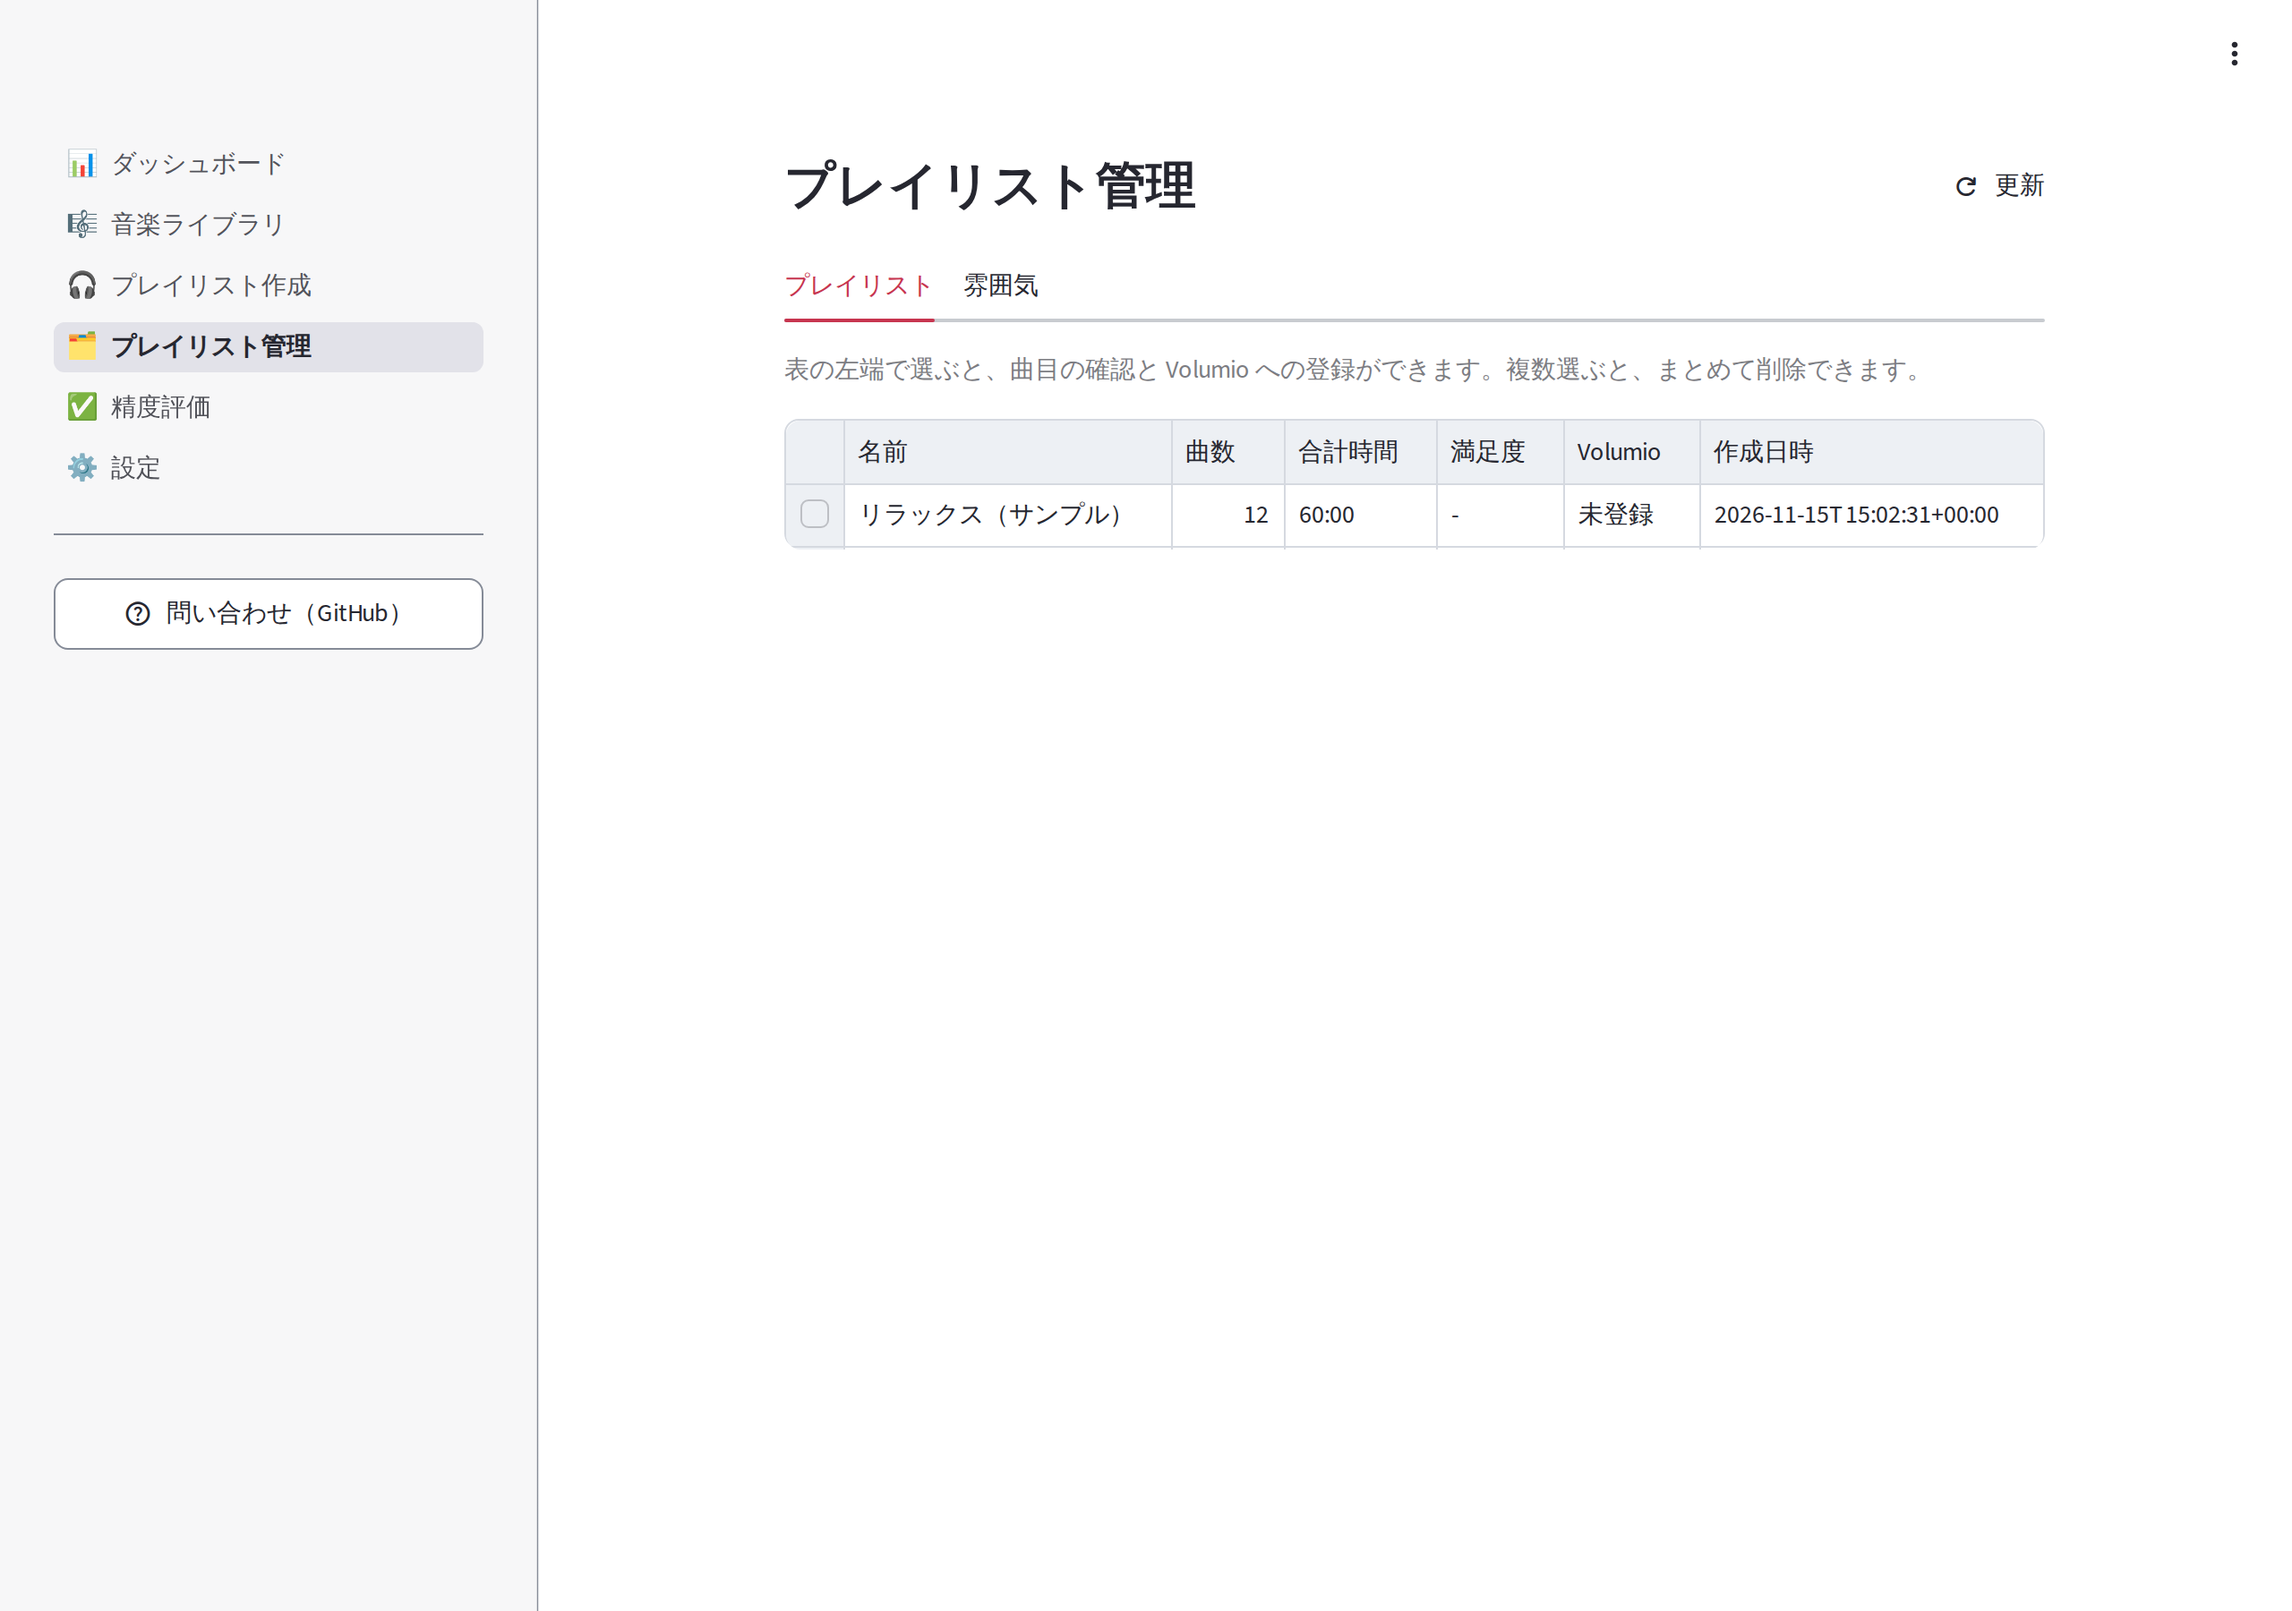
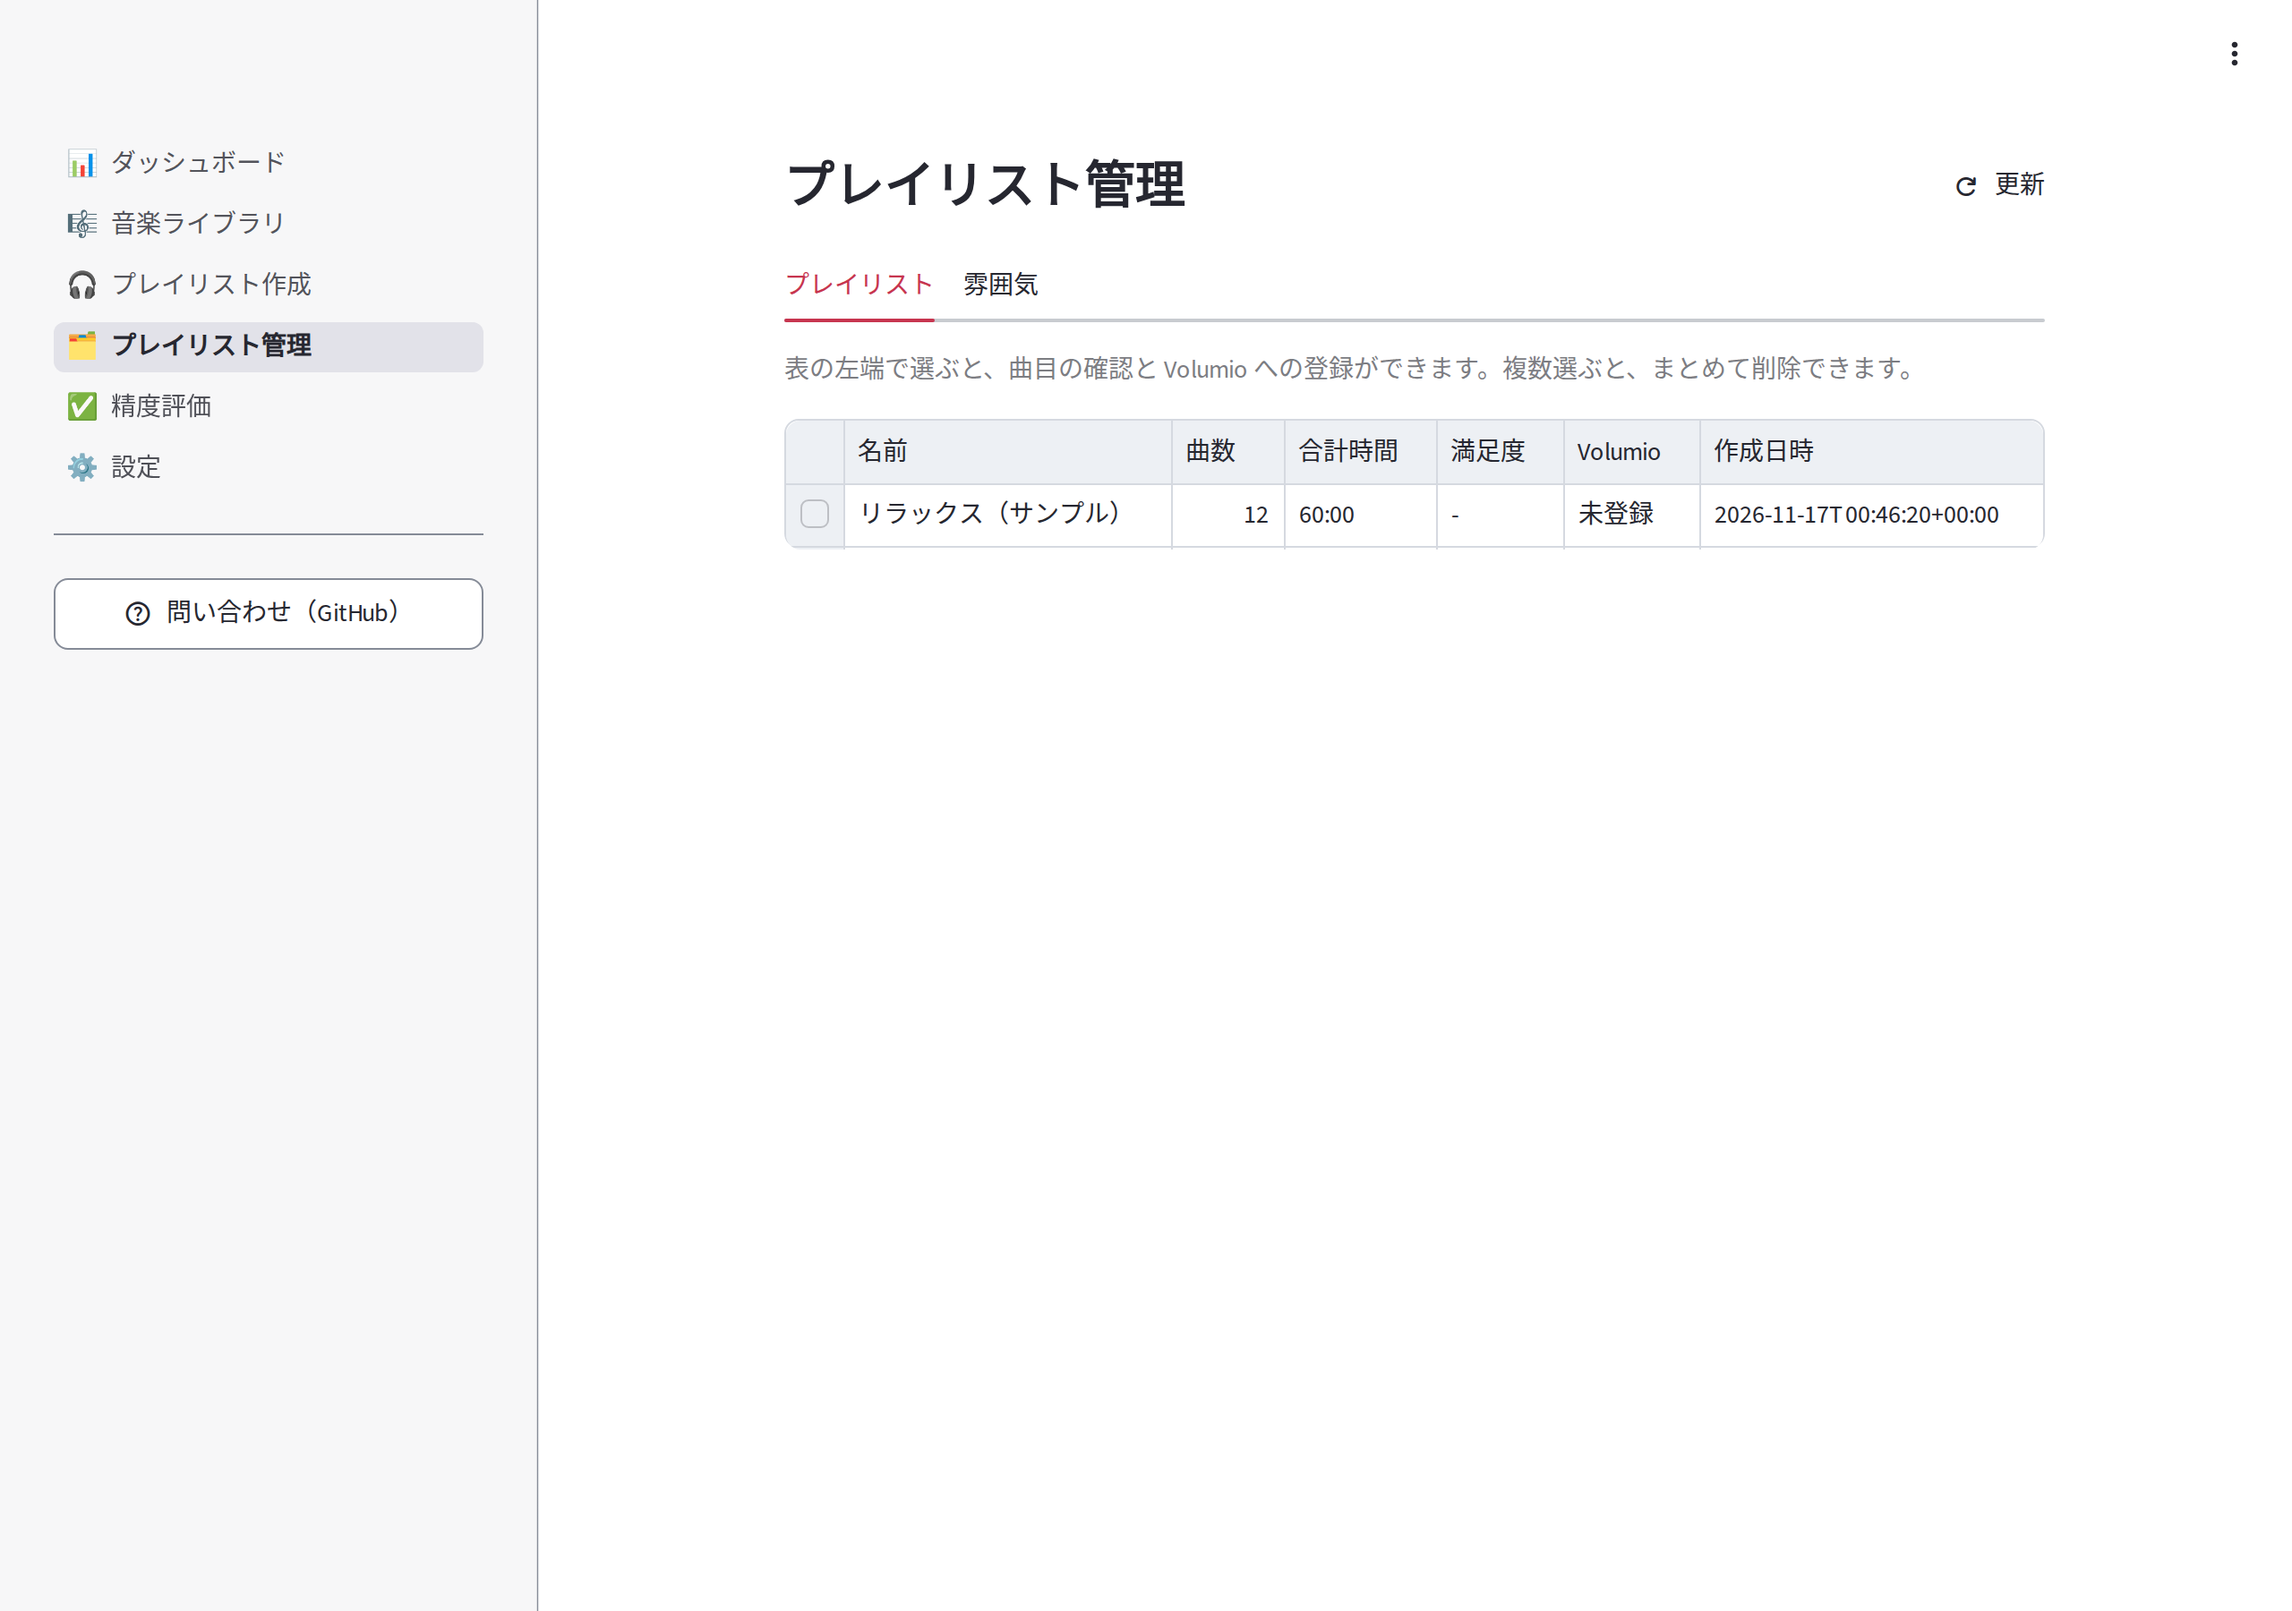
画面キャプチャを日本語フォントで撮り直す
全画面・全画面幅のキャプチャを日本語の字形で撮り直す。プレイリスト管理画面の
スマートフォン・タブレット幅の画像を追加し、撮影時のフォント設定を説明に追記する。

diff --git a/docs/SCREENSHOTS.md b/docs/SCREENSHOTS.md
@@ -108,7 +108,7 @@
 | 選曲条件・全体 | [画像](images/playlist-conditions-mobile.png) | [画像](images/playlist-conditions-tablet.png) | [画像](images/playlist-conditions.png) |
 | 曲の編集 | [画像](images/playlist-edit-mobile.png) | [画像](images/playlist-edit-tablet.png) | [画像](images/playlist.png) |
 | 保存 | [画像](images/playlist-save-mobile.png) | [画像](images/playlist-save-tablet.png) | [画像](images/playlist-save.png) |
-| プレイリスト管理 | - | - | [画像](images/manage.png) |
+| プレイリスト管理 | [画像](images/manage-mobile.png) | [画像](images/manage-tablet.png) | [画像](images/manage.png) |
 | 評価入力 | [画像](images/evaluation-mobile.png) | [画像](images/evaluation-tablet.png) | [画像](images/evaluation.png) |
 | 一般設定 | [画像](images/settings-mobile.png) | [画像](images/settings-tablet.png) | [画像](images/settings.png) |
 
@@ -141,3 +141,5 @@ uv run python tools/capture_screenshots.py --viewport tablet
 ```
 
 `--output` で保存先を変更できます。日本語表示にはOSの日本語フォントが必要です（例: WSL/Linuxでは `fonts-noto-cjk`）。アプリが外部フォントを取得することはありません。
+
+WSL/Linuxでは、中国語フォント（WenQuanYi Zen Hei など）も入っていると漢字・かなが中国語の字形で表示されることがあります。撮影用のブラウザには和文を Noto Sans CJK JP で描画する fontconfig 設定を渡し、ページ名とサイドバーの描画に日本語以外のCJKフォントが使われた場合や日本語フォントが見つからない場合は撮影を中止します。
